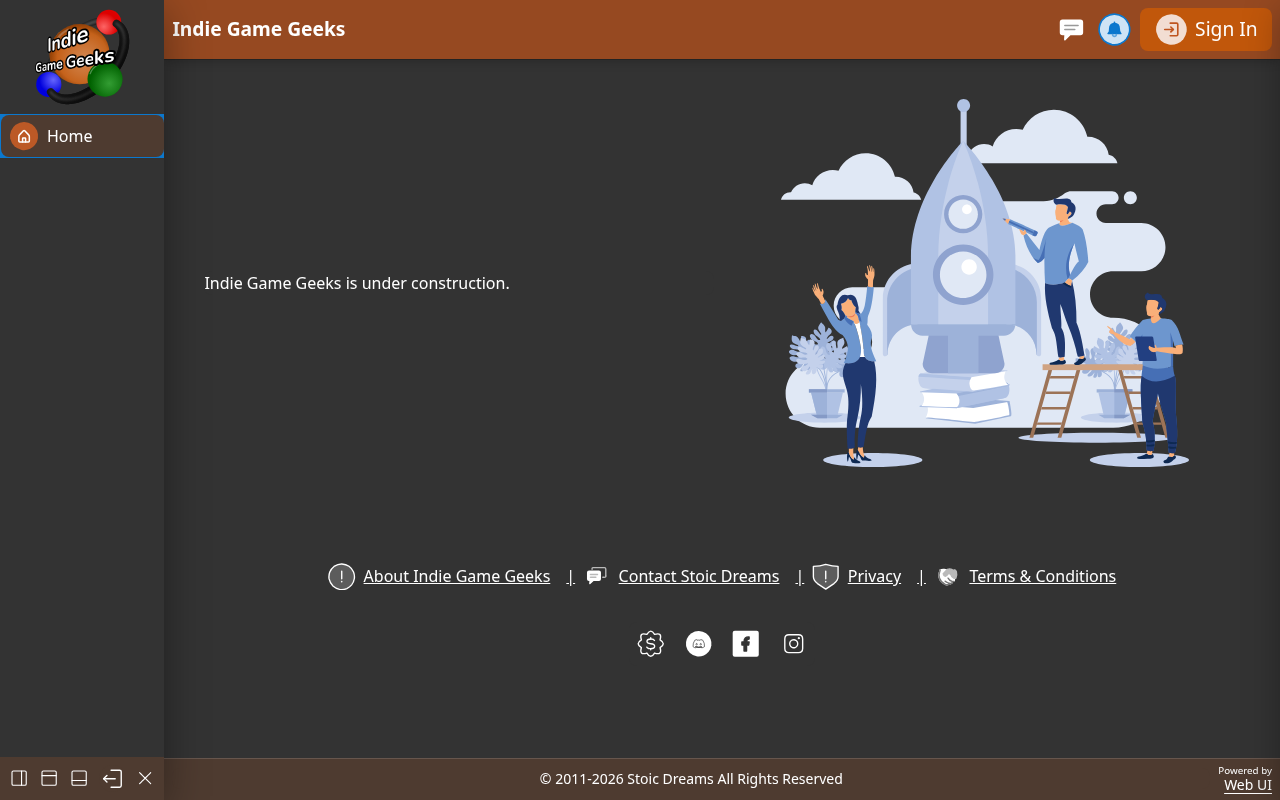
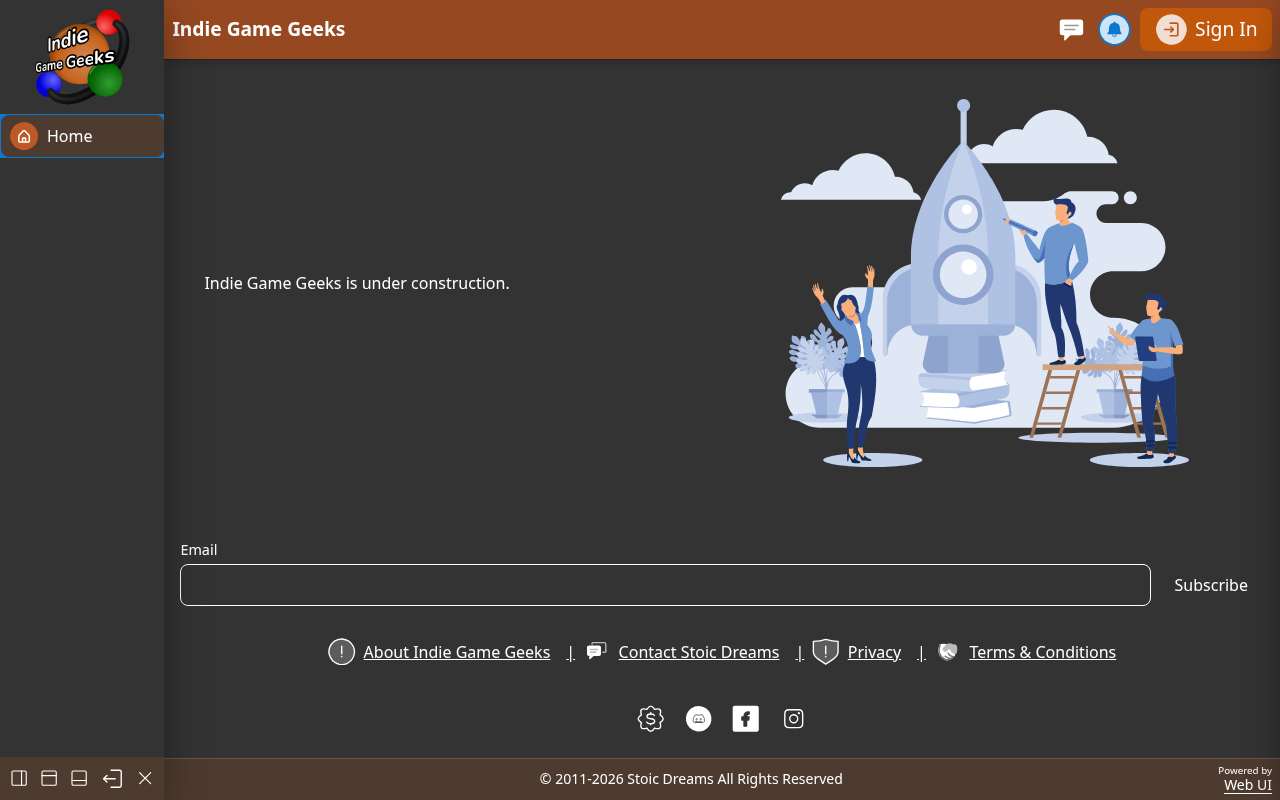
Stoic Dreams newsletter signup Feature: The footer has the Stoic Dreams newsletter signup form, as stoicdreams.com does

diff --git a/webapp/root_files/service-worker.min.js b/webapp/root_files/service-worker.min.js
@@ -1,1 +1,1 @@
-self.addEventListener("install",t=>t.waitUntil(onInstall(t))),self.addEventListener("activate",t=>t.waitUntil(onActivate(t))),self.addEventListener("fetch",t=>{const e=new URL(t.request.url);e.protocol==="ipc:"||e.protocol==="tauri:"||e.hostname==="ipc.localhost"||e.hostname==="tauri.localhost"||e.hostname.startsWith("127")||e.hostname==="localhost"||t.request.url.startsWith("http")&&allowCache(t.request)&&t.respondWith(onFetch(t))});const currentVersion="0.1.32",cacheNamePrefix="offline-cache-",cacheName=`${cacheNamePrefix}${currentVersion}`;async function onInstall(t){self.skipWaiting()}async function onActivate(t){const e=await caches.keys();await Promise.all(e.filter(a=>a.startsWith(cacheNamePrefix)&&a!==cacheName).map(a=>caches.delete(a))),await self.clients.claim()}async function onFetch(t){const e=await caches.open(cacheName);let a;try{a=await fetch(applyCacheBusting(t.request))}catch(n){const c=await e.match(t.request);if(c)return c;throw n}return a.ok?(t.waitUntil(e.put(t.request,a.clone()).catch(()=>{})),a):await e.match(t.request)||a}function applyCacheBusting(t){try{const e=new URL(t.url);return e.searchParams.set("_",Date.now()),new Request(e.toString(),t)}catch{return t}}function allowCache(t){return!(t.method!=="GET"||t.mode==="navigate")}
+self.addEventListener("install",t=>t.waitUntil(onInstall(t))),self.addEventListener("activate",t=>t.waitUntil(onActivate(t))),self.addEventListener("fetch",t=>{const e=new URL(t.request.url);e.protocol==="ipc:"||e.protocol==="tauri:"||e.hostname==="ipc.localhost"||e.hostname==="tauri.localhost"||e.hostname.startsWith("127")||e.hostname==="localhost"||t.request.url.startsWith("http")&&allowCache(t.request)&&t.respondWith(onFetch(t))});const currentVersion="0.1.33",cacheNamePrefix="offline-cache-",cacheName=`${cacheNamePrefix}${currentVersion}`;async function onInstall(t){self.skipWaiting()}async function onActivate(t){const e=await caches.keys();await Promise.all(e.filter(a=>a.startsWith(cacheNamePrefix)&&a!==cacheName).map(a=>caches.delete(a))),await self.clients.claim()}async function onFetch(t){const e=await caches.open(cacheName);let a;try{a=await fetch(applyCacheBusting(t.request))}catch(n){const c=await e.match(t.request);if(c)return c;throw n}return a.ok?(t.waitUntil(e.put(t.request,a.clone()).catch(()=>{})),a):await e.match(t.request)||a}function applyCacheBusting(t){try{const e=new URL(t.url);return e.searchParams.set("_",Date.now()),new Request(e.toString(),t)}catch{return t}}function allowCache(t){return!(t.method!=="GET"||t.mode==="navigate")}

diff --git a/webapp/pages/index.html b/webapp/pages/index.html
@@ -78,12 +78,13 @@
 	<link rel="preload" as="script" href="https://cdn.myfi.ws/webui/link.min.js" crossorigin="anonymous" />
 	<link rel="preload" as="script" href="https://cdn.myfi.ws/webui/myfi-info.min.js" crossorigin="anonymous" />
 	<link rel="preload" as="script" href="https://cdn.myfi.ws/webui/nav.min.js" crossorigin="anonymous" />
+	<link rel="preload" as="script" href="https://cdn.myfi.ws/webui/newsletter.min.js" crossorigin="anonymous" />
 	<link rel="preload" as="script" href="https://cdn.myfi.ws/webui/next-page.min.js" crossorigin="anonymous" />
 	<link rel="preload" as="script" href="https://cdn.myfi.ws/webui/page-footer.min.js" crossorigin="anonymous" />
 	<link rel="preload" as="script" href="https://cdn.myfi.ws/webui/stoic-dreams-logo.min.js" crossorigin="anonymous" />
 	<link rel="preload" as="script" href="https://cdn.myfi.ws/webui/stoic-social-links.min.js" crossorigin="anonymous" />
 	<link rel="preload" as="script" href="https://cdn.myfi.ws/webui/under-construction.min.js" crossorigin="anonymous" />
-	<meta name="webui-prerender" content="30a85c6f8f">
+	<meta name="webui-prerender" content="b4e3d25ae7">
 </head>
 
 <body>
@@ -120,6 +121,7 @@
 		<noscript>Javascript is required to view this site</noscript>
 		<webui-page-footer copyright="2011" company="Stoic Dreams">
 			<webui-next-page theme="tertiary" data-subscribe="page-next-page"></webui-next-page>
+			<webui-newsletter key="703a9b5e-0a14-4ed7-9618-ce96ca4e3e21"></webui-newsletter>
 			<webui-flex class="my-3" justify="center" wrap>
 				<webui-link href="/about" icon="circle_exclamation|backing|bordered">About Indie Game Geeks</webui-link>
 				<webui-link href="/contact" icon="messages|fill|shade:tri">Contact Stoic Dreams</webui-link>

diff --git a/webapp/pages/about.html b/webapp/pages/about.html
@@ -80,11 +80,12 @@
 	<link rel="preload" as="script" href="https://cdn.myfi.ws/webui/link.min.js" crossorigin="anonymous" />
 	<link rel="preload" as="script" href="https://cdn.myfi.ws/webui/myfi-info.min.js" crossorigin="anonymous" />
 	<link rel="preload" as="script" href="https://cdn.myfi.ws/webui/nav.min.js" crossorigin="anonymous" />
+	<link rel="preload" as="script" href="https://cdn.myfi.ws/webui/newsletter.min.js" crossorigin="anonymous" />
 	<link rel="preload" as="script" href="https://cdn.myfi.ws/webui/next-page.min.js" crossorigin="anonymous" />
 	<link rel="preload" as="script" href="https://cdn.myfi.ws/webui/page-footer.min.js" crossorigin="anonymous" />
 	<link rel="preload" as="script" href="https://cdn.myfi.ws/webui/stoic-dreams-logo.min.js" crossorigin="anonymous" />
 	<link rel="preload" as="script" href="https://cdn.myfi.ws/webui/stoic-social-links.min.js" crossorigin="anonymous" />
-	<meta name="webui-prerender" content="39973f17a1">
+	<meta name="webui-prerender" content="5a7ac95ba9">
 </head>
 
 <body>
@@ -123,6 +124,7 @@
 		<noscript>Javascript is required to view this site</noscript>
 		<webui-page-footer copyright="2011" company="Stoic Dreams">
 			<webui-next-page theme="tertiary" data-subscribe="page-next-page"></webui-next-page>
+			<webui-newsletter key="703a9b5e-0a14-4ed7-9618-ce96ca4e3e21"></webui-newsletter>
 			<webui-flex class="my-3" justify="center" wrap>
 				<webui-link href="/about" icon="circle_exclamation|backing|bordered">About Indie Game Geeks</webui-link>
 				<webui-link href="/contact" icon="messages|fill|shade:tri">Contact Stoic Dreams</webui-link>

diff --git a/webapp/pages/contact.html b/webapp/pages/contact.html
@@ -80,11 +80,12 @@
 	<link rel="preload" as="script" href="https://cdn.myfi.ws/webui/link.min.js" crossorigin="anonymous" />
 	<link rel="preload" as="script" href="https://cdn.myfi.ws/webui/myfi-info.min.js" crossorigin="anonymous" />
 	<link rel="preload" as="script" href="https://cdn.myfi.ws/webui/nav.min.js" crossorigin="anonymous" />
+	<link rel="preload" as="script" href="https://cdn.myfi.ws/webui/newsletter.min.js" crossorigin="anonymous" />
 	<link rel="preload" as="script" href="https://cdn.myfi.ws/webui/next-page.min.js" crossorigin="anonymous" />
 	<link rel="preload" as="script" href="https://cdn.myfi.ws/webui/page-footer.min.js" crossorigin="anonymous" />
 	<link rel="preload" as="script" href="https://cdn.myfi.ws/webui/stoic-dreams-logo.min.js" crossorigin="anonymous" />
 	<link rel="preload" as="script" href="https://cdn.myfi.ws/webui/stoic-social-links.min.js" crossorigin="anonymous" />
-	<meta name="webui-prerender" content="636a3187a2">
+	<meta name="webui-prerender" content="c9c1570202">
 </head>
 
 <body>
@@ -121,6 +122,7 @@
 		<noscript>Javascript is required to view this site</noscript>
 		<webui-page-footer copyright="2011" company="Stoic Dreams">
 			<webui-next-page theme="tertiary" data-subscribe="page-next-page"></webui-next-page>
+			<webui-newsletter key="703a9b5e-0a14-4ed7-9618-ce96ca4e3e21"></webui-newsletter>
 			<webui-flex class="my-3" justify="center" wrap>
 				<webui-link href="/about" icon="circle_exclamation|backing|bordered">About Indie Game Geeks</webui-link>
 				<webui-link href="/contact" icon="messages|fill|shade:tri">Contact Stoic Dreams</webui-link>

diff --git a/webapp/pages/privacy.html b/webapp/pages/privacy.html
@@ -80,11 +80,12 @@
 	<link rel="preload" as="script" href="https://cdn.myfi.ws/webui/link.min.js" crossorigin="anonymous" />
 	<link rel="preload" as="script" href="https://cdn.myfi.ws/webui/myfi-info.min.js" crossorigin="anonymous" />
 	<link rel="preload" as="script" href="https://cdn.myfi.ws/webui/nav.min.js" crossorigin="anonymous" />
+	<link rel="preload" as="script" href="https://cdn.myfi.ws/webui/newsletter.min.js" crossorigin="anonymous" />
 	<link rel="preload" as="script" href="https://cdn.myfi.ws/webui/next-page.min.js" crossorigin="anonymous" />
 	<link rel="preload" as="script" href="https://cdn.myfi.ws/webui/page-footer.min.js" crossorigin="anonymous" />
 	<link rel="preload" as="script" href="https://cdn.myfi.ws/webui/stoic-dreams-logo.min.js" crossorigin="anonymous" />
 	<link rel="preload" as="script" href="https://cdn.myfi.ws/webui/stoic-social-links.min.js" crossorigin="anonymous" />
-	<meta name="webui-prerender" content="72263a2b95">
+	<meta name="webui-prerender" content="3d75bab2e2">
 </head>
 
 <body>
@@ -121,6 +122,7 @@
 		<noscript>Javascript is required to view this site</noscript>
 		<webui-page-footer copyright="2011" company="Stoic Dreams">
 			<webui-next-page theme="tertiary" data-subscribe="page-next-page"></webui-next-page>
+			<webui-newsletter key="703a9b5e-0a14-4ed7-9618-ce96ca4e3e21"></webui-newsletter>
 			<webui-flex class="my-3" justify="center" wrap>
 				<webui-link href="/about" icon="circle_exclamation|backing|bordered">About Indie Game Geeks</webui-link>
 				<webui-link href="/contact" icon="messages|fill|shade:tri">Contact Stoic Dreams</webui-link>

diff --git a/webapp/pages/terms.html b/webapp/pages/terms.html
@@ -80,11 +80,12 @@
 	<link rel="preload" as="script" href="https://cdn.myfi.ws/webui/link.min.js" crossorigin="anonymous" />
 	<link rel="preload" as="script" href="https://cdn.myfi.ws/webui/myfi-info.min.js" crossorigin="anonymous" />
 	<link rel="preload" as="script" href="https://cdn.myfi.ws/webui/nav.min.js" crossorigin="anonymous" />
+	<link rel="preload" as="script" href="https://cdn.myfi.ws/webui/newsletter.min.js" crossorigin="anonymous" />
 	<link rel="preload" as="script" href="https://cdn.myfi.ws/webui/next-page.min.js" crossorigin="anonymous" />
 	<link rel="preload" as="script" href="https://cdn.myfi.ws/webui/page-footer.min.js" crossorigin="anonymous" />
 	<link rel="preload" as="script" href="https://cdn.myfi.ws/webui/stoic-dreams-logo.min.js" crossorigin="anonymous" />
 	<link rel="preload" as="script" href="https://cdn.myfi.ws/webui/stoic-social-links.min.js" crossorigin="anonymous" />
-	<meta name="webui-prerender" content="9cf8b79b38">
+	<meta name="webui-prerender" content="f19e8b9055">
 </head>
 
 <body>
@@ -121,6 +122,7 @@
 		<noscript>Javascript is required to view this site</noscript>
 		<webui-page-footer copyright="2011" company="Stoic Dreams">
 			<webui-next-page theme="tertiary" data-subscribe="page-next-page"></webui-next-page>
+			<webui-newsletter key="703a9b5e-0a14-4ed7-9618-ce96ca4e3e21"></webui-newsletter>
 			<webui-flex class="my-3" justify="center" wrap>
 				<webui-link href="/about" icon="circle_exclamation|backing|bordered">About Indie Game Geeks</webui-link>
 				<webui-link href="/contact" icon="messages|fill|shade:tri">Contact Stoic Dreams</webui-link>

diff --git a/webapp/index.html b/webapp/index.html
@@ -107,6 +107,7 @@
 		<noscript>Javascript is required to view this site</noscript>
 		<webui-page-footer copyright="2011" company="Stoic Dreams">
 			<webui-next-page theme="tertiary" data-subscribe="page-next-page"></webui-next-page>
+			<webui-newsletter key="703a9b5e-0a14-4ed7-9618-ce96ca4e3e21"></webui-newsletter>
 			<webui-flex class="my-3" justify="center" wrap>
 				<webui-link href="/about" icon="circle_exclamation|backing|bordered">About {APP_NAME}</webui-link>
 				<webui-link href="/contact" icon="messages|fill|shade:tri">Contact {COMPANY_SINGULAR}</webui-link>

diff --git a/webapp/root_files/service-worker.js b/webapp/root_files/service-worker.js
@@ -20,7 +20,7 @@ self.addEventListener('fetch', event => {
     }
     event.respondWith(onFetch(event))
 });
-const currentVersion = '0.1.32';
+const currentVersion = '0.1.33';
 const cacheNamePrefix = 'offline-cache-';
 const cacheName = `${cacheNamePrefix}${currentVersion}`;
 async function onInstall(event) {

diff --git a/Docs/README.md b/Docs/README.md
@@ -1,6 +1,6 @@
 # Indie Game Geeks
 
-[Version: 0.1.32](https://github.com/StoicDreams/IndieGameGeeks)
+[Version: 0.1.33](https://github.com/StoicDreams/IndieGameGeeks)
 
 [WebUI](https://github.com/StoicDreams/WebUI)
 
